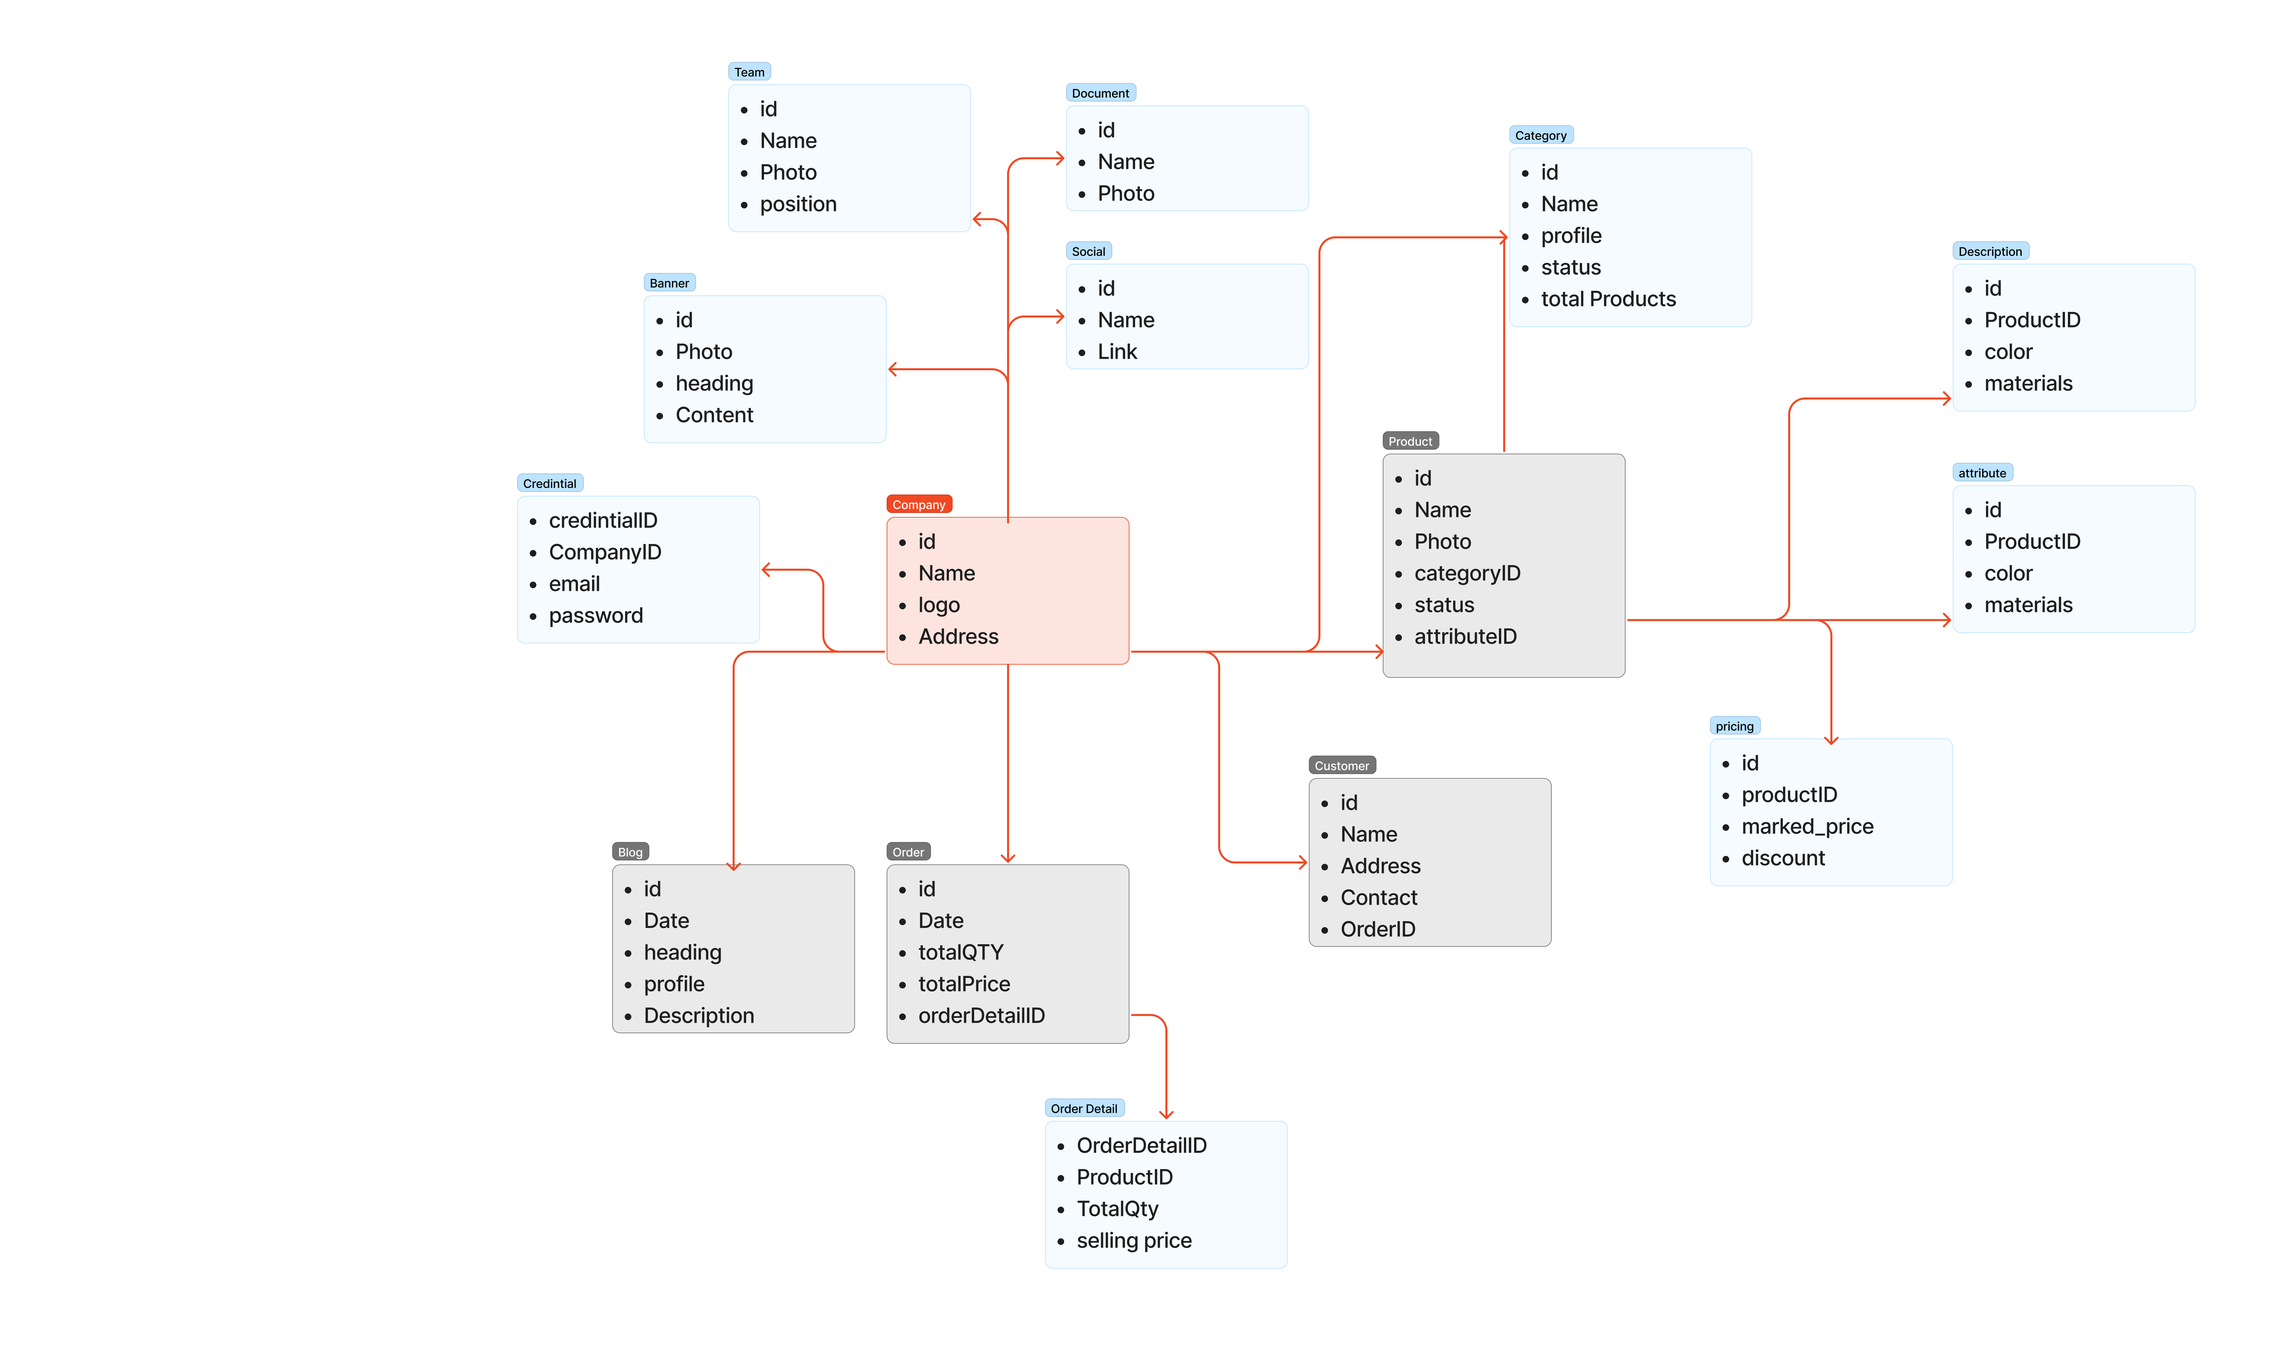
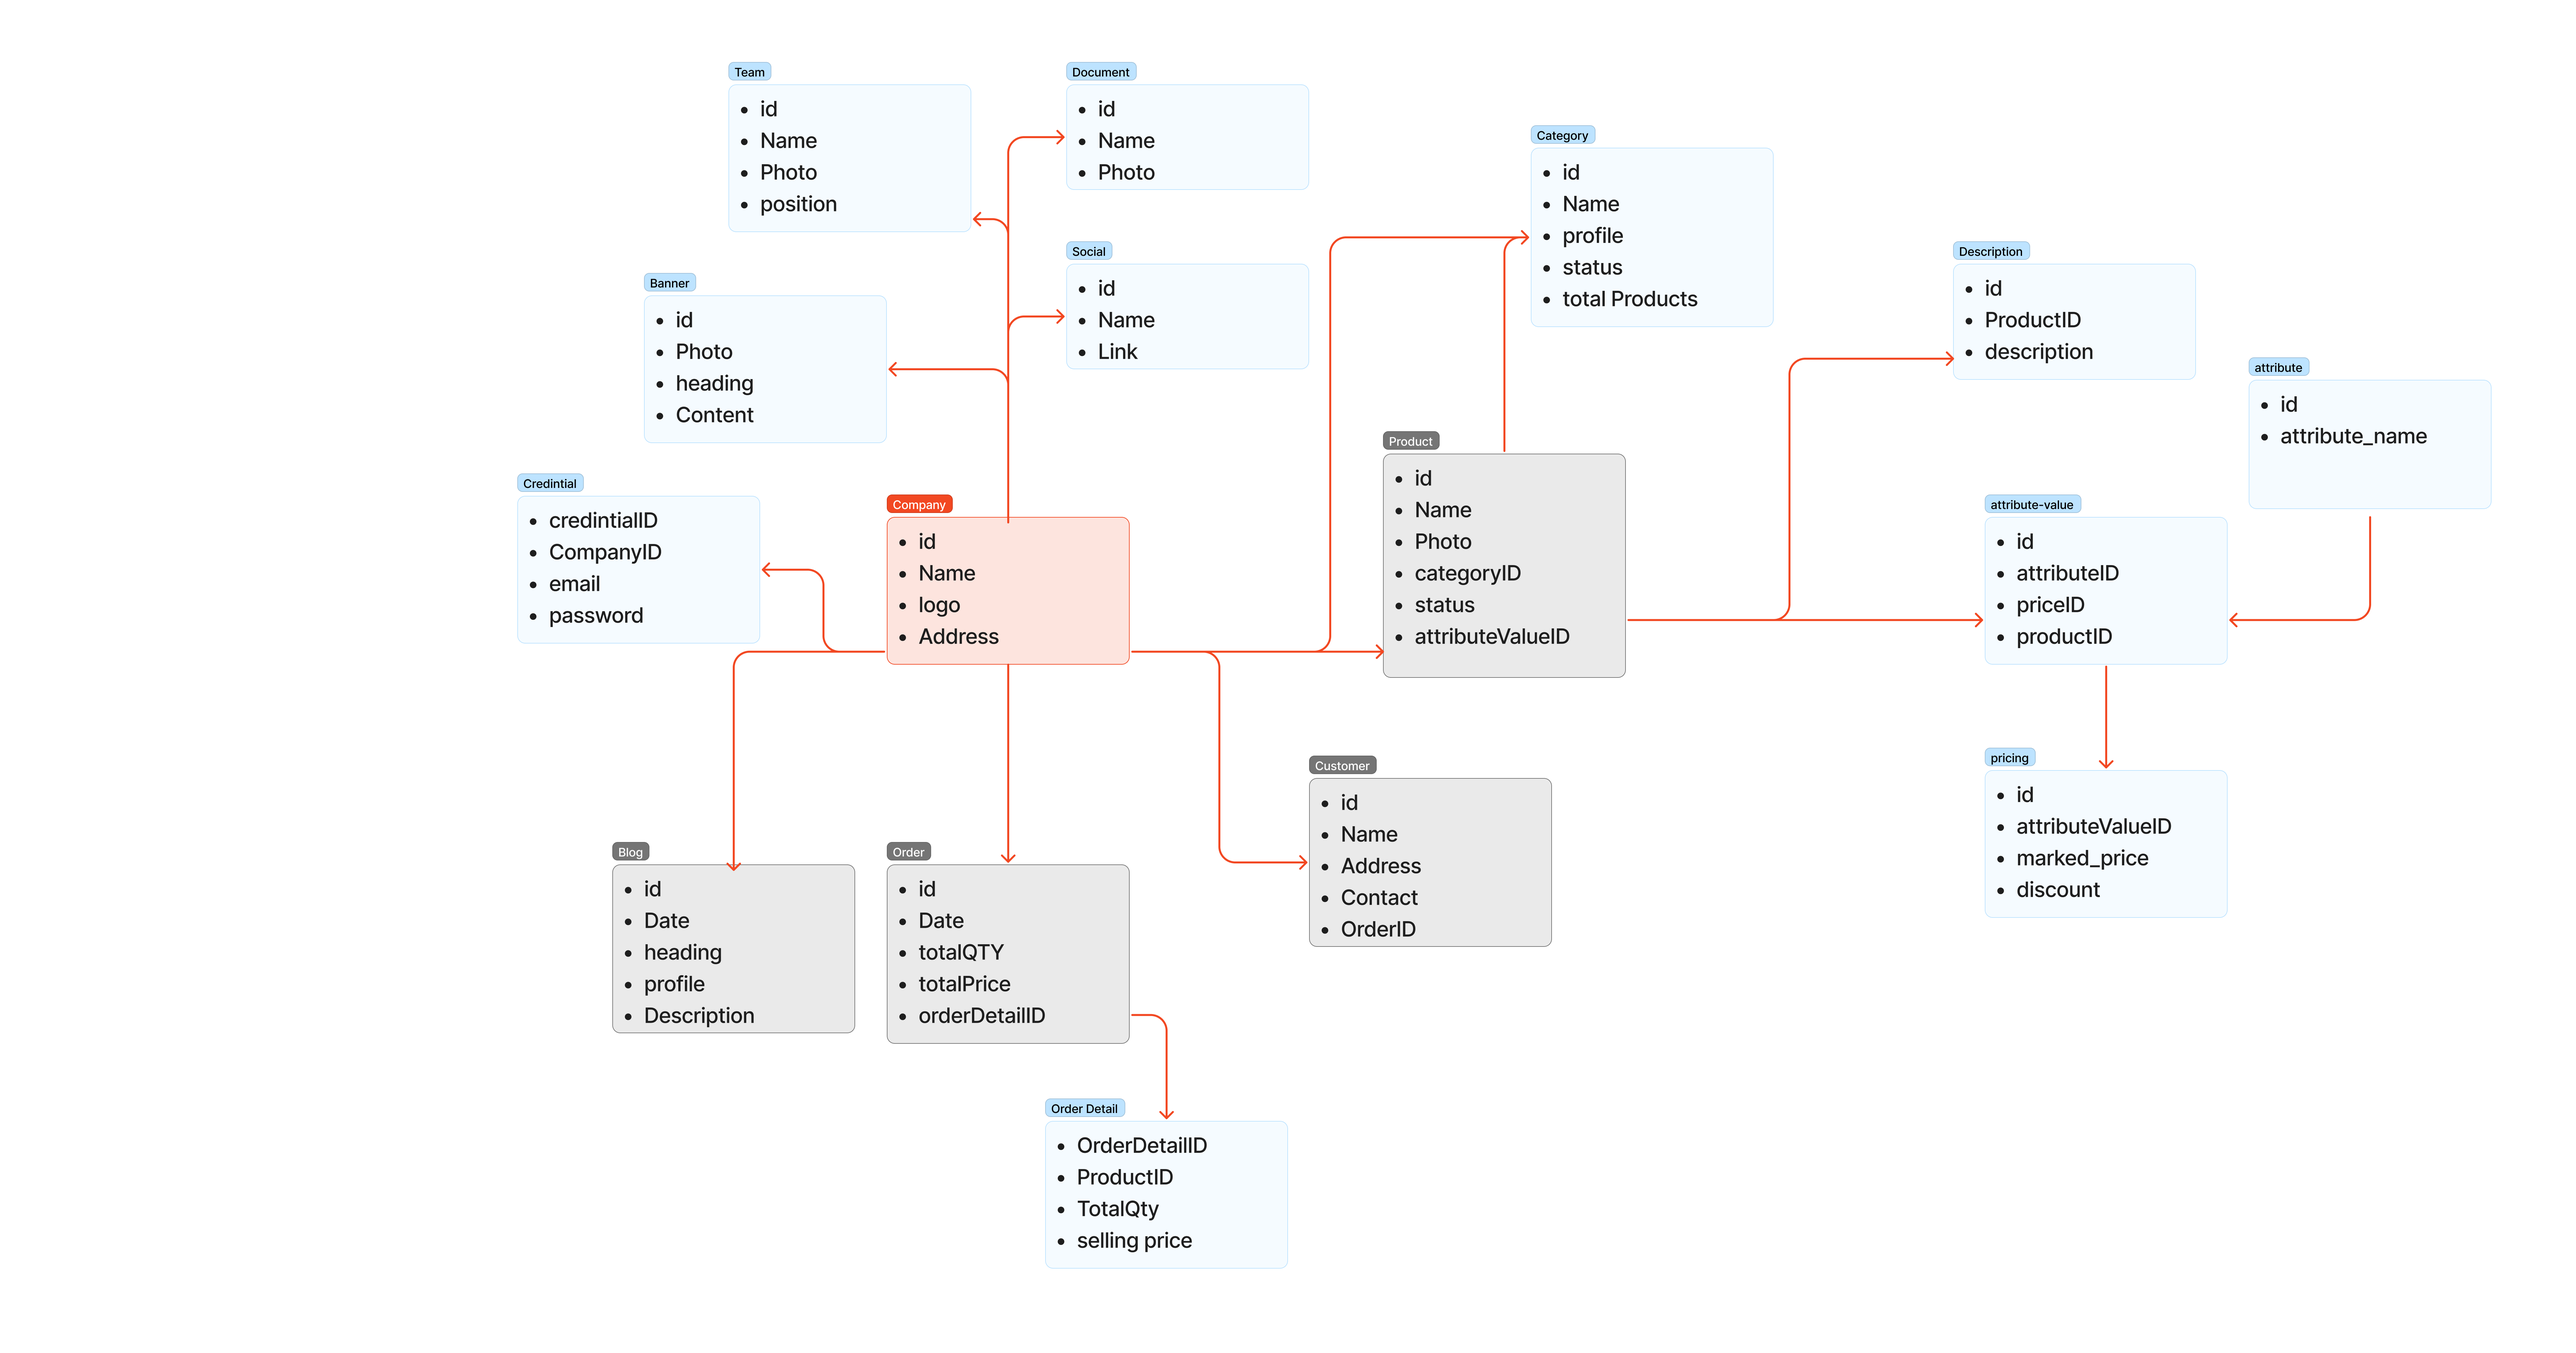
attribute model made

diff --git a/model/connection.js b/model/connection.js
@@ -23,6 +23,11 @@ db.document = require("./document")(sequelize, DataTypes);
 db.team = require("./team")(sequelize, DataTypes);
 db.social = require("./social")(sequelize, DataTypes);
 db.category = require("./category")(sequelize, DataTypes);
+db.product = require("./product")(sequelize, DataTypes);
+db.description = require("./description")(sequelize, DataTypes);
+db.attribute = require("./attribute")(sequelize, DataTypes);
+db.attributeValue = require("./attributeValue")(sequelize, DataTypes);
+db.pricing = require("./pricing")(sequelize, DataTypes);
 
 //---------------relations
 db.company.hasOne(db.credintial, {
@@ -55,8 +60,20 @@ db.company.hasMany(db.category, {
   onUpdate: "CASCADE",
   onDelete: "RESTRICT",
 }); //one-to-many relation
+db.company.hasMany(db.product, {
+  foreignKey: "companyID",
+  onUpdate: "CASCADE",
+  onDelete: "RESTRICT",
+}); //one-to-many relation
 
+//-----------------------------------
+db.category.hasOne(db.product, {
+  foreignKey: "categoryID",
+  onUpdate: "CASCADE",
+  onDelete: "RESTRICT",
+});
 
+//-----------------------------------
 
 //sync model
 db.sequelize.sync({ force: false });

diff --git a/model/product.js b/model/product.js
@@ -1,0 +1,30 @@
+module.exports = (sequelize, DataTypes) => {
+  const product = sequelize.define(
+    "product",
+    {
+      id: {
+        type: DataTypes.UUID,
+        primaryKey: true,
+        defaultValue: DataTypes.UUIDV4,
+      },
+      Name: {
+        type: DataTypes.STRING,
+        unique: true,
+      },
+      image: {
+        type: DataTypes.STRING,
+        allowNull: true,
+      },
+      status: {
+        type: DataTypes.BOOLEAN,
+        allowNull: false,
+        defaultValue: true,
+      },
+    },
+    {
+      //same table name as schema
+      freezeTableName: true,
+    }
+  );
+  return product;
+};

diff --git a/model/pricing.js b/model/pricing.js
@@ -1,0 +1,25 @@
+module.exports = (sequelize, DataTypes) => {
+  const pricing = sequelize.define(
+    "pricing",
+    {
+      id: {
+        type: DataTypes.UUID,
+        primaryKey: true,
+        defaultValue: DataTypes.UUIDV4,
+      },
+      price: {
+        type: DataTypes.STRING,
+        unique: true,
+      },
+      discount: {
+        type: DataTypes.STRING,
+        unique: true,
+      },
+    },
+    {
+      //same table name as schema
+      freezeTableName: true,
+    }
+  );
+  return pricing;
+};

diff --git a/model/attribute.js b/model/attribute.js
@@ -1,0 +1,22 @@
+module.exports = (sequelize, DataTypes) => {
+    const attribute = sequelize.define(
+      "attribute",
+      {
+        id: {
+          type: DataTypes.UUID,
+          primaryKey: true,
+          defaultValue: DataTypes.UUIDV4,
+        },
+        type: {
+          type: DataTypes.STRING,
+          unique: true,
+        },
+      },
+      {
+        //same table name as schema
+        freezeTableName: true,
+      }
+    );
+    return attribute;
+  };
+  

diff --git a/model/description.js b/model/description.js
@@ -1,0 +1,21 @@
+module.exports = (sequelize, DataTypes) => {
+  const description = sequelize.define(
+    "description",
+    {
+      id: {
+        type: DataTypes.UUID,
+        primaryKey: true,
+        defaultValue: DataTypes.UUIDV4,
+      },
+      description: {
+        type: DataTypes.TEXT,
+        unique: true,
+      },
+    },
+    {
+      //same table name as schema
+      freezeTableName: true,
+    }
+  );
+  return description;
+};

diff --git a/model/attributeValue.js b/model/attributeValue.js
@@ -1,0 +1,17 @@
+module.exports = (sequelize, DataTypes) => {
+  const attributeValue = sequelize.define(
+    "attributeValue",
+    {
+      id: {
+        type: DataTypes.UUID,
+        primaryKey: true,
+        defaultValue: DataTypes.UUIDV4,
+      },
+    },
+    {
+      //same table name as schema
+      freezeTableName: true,
+    }
+  );
+  return attributeValue;
+};
